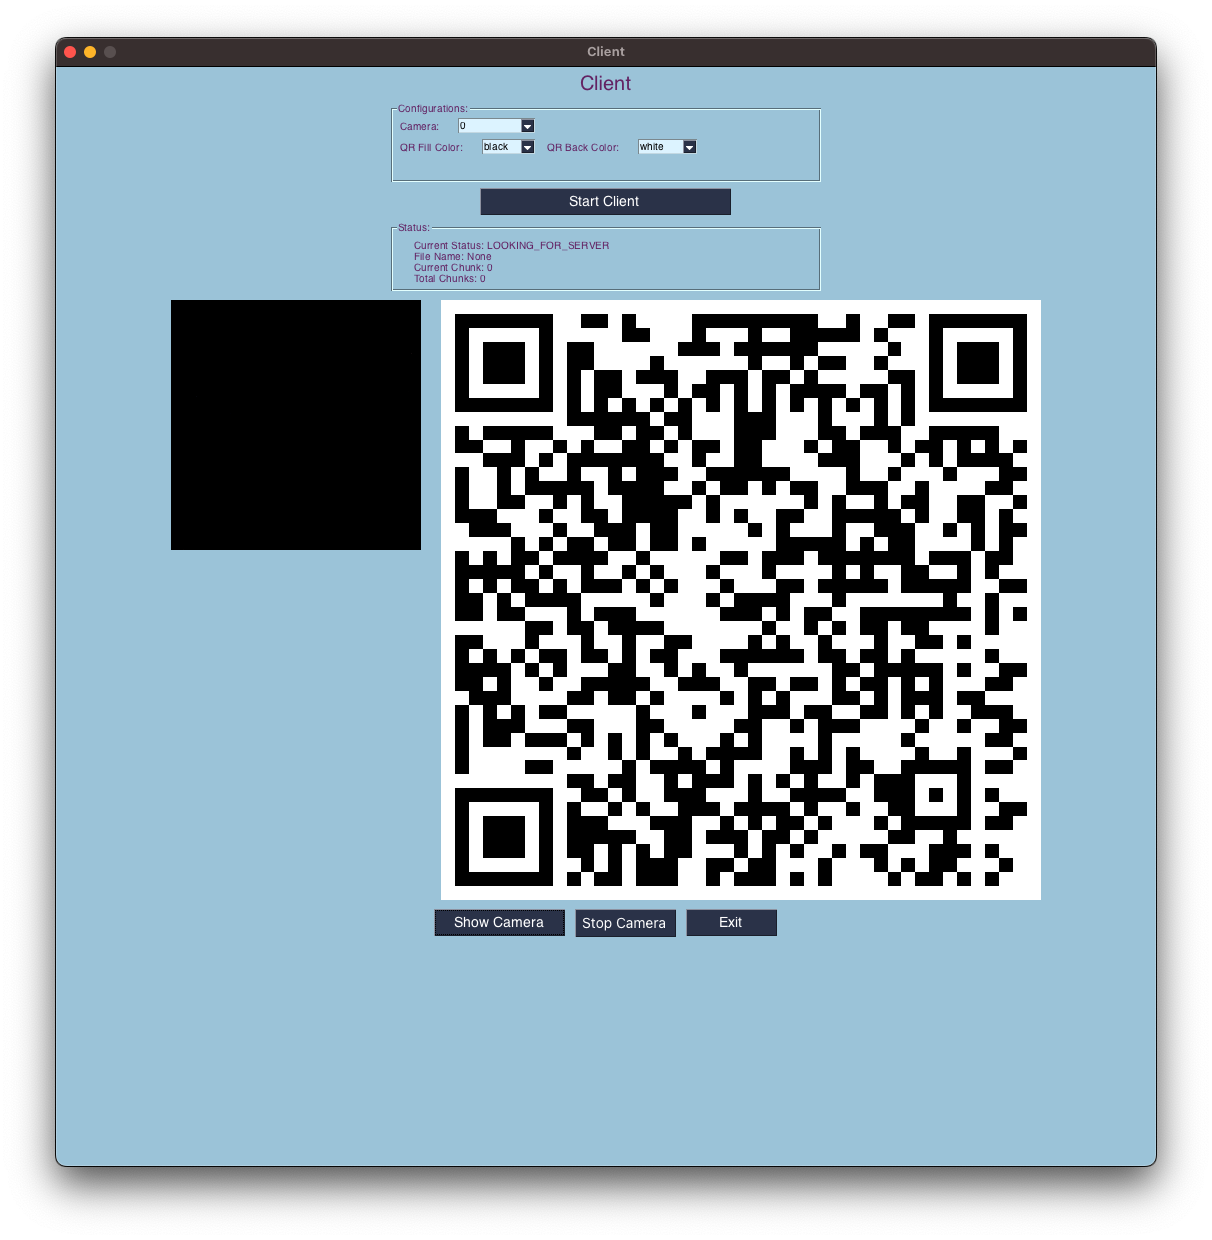
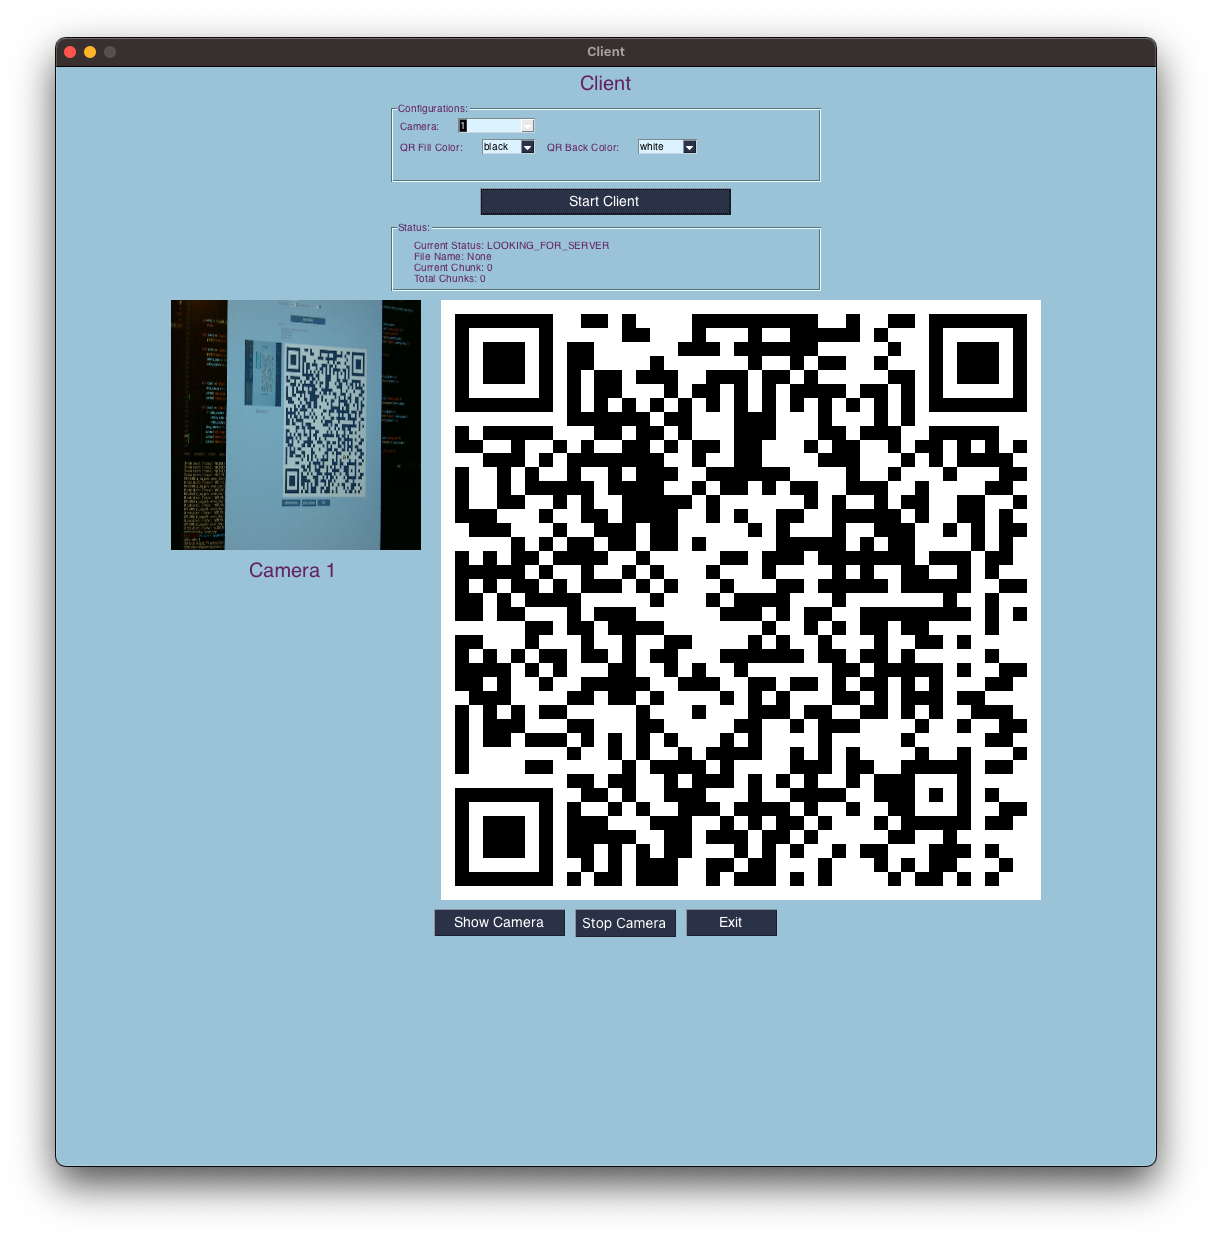
Update qr_data_into_img_bytes function parameters

Changed region(s): [[0.1526, 0.2145, 0.3358, 0.4597], [0.4274, 0.0919, 0.4579, 0.1226]]

diff --git a/client.py b/client.py
@@ -48,7 +48,10 @@ def main():
         [sg.Frame(title='Configurations:', size=(430,80),layout=configuration_layout)],
         [sg.Button('Start Client', size=(30, 1), font='Helvetica 14')],
         [sg.Frame(title='Status:', size=(430,70),layout=[ [sg.Text(key='current_chunk'),sg.Text('', key='current_status')] ])],
-        [sg.Column([[sg.Image(key="web-image")]], element_justification='left', vertical_alignment='top'), sg.Column([[sg.Image(key="qr-image")]], element_justification='c')],  
+        [
+        sg.Column([[sg.Image(key="web-image")], [sg.Text("Camera", font='Helvetica 20', visible=False, size=(20, 1), justification='center', key='camera_text')]], element_justification='left', vertical_alignment='top'),
+        sg.Column([[sg.Image(key="qr-image")]], element_justification='c')
+        ],
         [
             sg.Button('Show Camera', size=(15, 1), font='Helvetica 14'),
             sg.Button('Stop Camera', size=(10, 1), font='Any 14'),
@@ -68,9 +71,10 @@ def main():
     input_file_name = None
     qr_images_arr = []
     recived_file_path = None
-    # Const
+    qr_fill_color = 'black'
+    qr_back_color = 'white'
+
     
-    output_folder = 'out_client'
     
     
     update_qr_img = False
@@ -94,10 +98,11 @@ def main():
             update_qr_img = False
             
     
-        if values['caemra_index'] != camera_index:
+        if camera_index != None and values['caemra_index'] != camera_index:
             print(f"Camera index: {values['caemra_index']}")
             camera_index = int(values["caemra_index"])
             video_capture = cv2.VideoCapture(camera_index)
+            window["camera_text"].update(f"Camera {camera_index}")
         
         
         if event in (sg.WIN_CLOSED, 'Exit'):
@@ -106,6 +111,7 @@ def main():
         elif event == 'Stop Camera':
             show_camera = False
             window['web-image'].Update(visible=False)
+            window['camera_text'].Update(visible=False)
             
         elif event == 'Show Camera':
             if video_capture is None:
@@ -113,17 +119,23 @@ def main():
                 video_capture = cv2.VideoCapture(camera_index)
             show_camera = True
             window['web-image'].Update(visible=True)
+            window["camera_text"].update(f"Camera {camera_index}")
+            window['camera_text'].Update(visible=True)
         
         elif event == 'Start Client':
             if video_capture is None:
                 camera_index = int(values["caemra_index"])
                 video_capture = cv2.VideoCapture(camera_index)
             
+            qr_fill_color = values['qr_fill_color']
+            qr_back_color = values['qr_back_color']
+            print(qr_fill_color, qr_back_color)
             status = status = TransferStatus.CLIENT_READY.value
             
         if status == TransferStatus.CLIENT_READY.value:
             status = TransferStatus.LOOKING_FOR_SERVER.value
-            current_qr_status_img_bytes = qr_data_into_img_bytes(status)
+
+            current_qr_status_img_bytes = qr_data_into_img_bytes(qr_fill_color, qr_back_color, status)
             update_qr_img = True
             
         
@@ -132,7 +144,7 @@ def main():
             if qr_obj:
                 if qr_obj["status"] ==  TransferStatus.CONNECTION_START.value:
                     status = TransferStatus.WATTING_FOR_FILE_INFO.value
-                    current_qr_status_img_bytes = qr_data_into_img_bytes(status)
+                    current_qr_status_img_bytes = qr_data_into_img_bytes(qr_fill_color, qr_back_color, status)
                     update_qr_img = True
         
         elif status == TransferStatus.WATTING_FOR_FILE_INFO.value:
@@ -146,7 +158,7 @@ def main():
                     
                     # update status for the next gui update
                     status = TransferStatus.WAIT_FOR_DATA_CHUNK.value
-                    current_qr_status_img_bytes = qr_data_into_img_bytes(status,input_file_name, total_chunks, current_chunk)
+                    current_qr_status_img_bytes = qr_data_into_img_bytes(qr_fill_color, qr_back_color, status,input_file_name, total_chunks, current_chunk)
                     update_qr_img = True
                 
         elif status == TransferStatus.WAIT_FOR_DATA_CHUNK.value:
@@ -165,11 +177,11 @@ def main():
                         
                         if (int(current_chunk) == (total_chunks - 1)):
                             status = TransferStatus.CLIENT_RECIVED_ALL_DATA_CHUNKS.value
-                            current_qr_status_img_bytes = qr_data_into_img_bytes(status)
+                            current_qr_status_img_bytes = qr_data_into_img_bytes(qr_fill_color, qr_back_color, status)
                             update_qr_img = True
                         else:
                             status = TransferStatus.RECIVED_DATA_CHUNK.value
-                            current_qr_status_img_bytes = qr_data_into_img_bytes(status, input_file_name, total_chunks, current_chunk)
+                            current_qr_status_img_bytes = qr_data_into_img_bytes(qr_fill_color, qr_back_color, status, input_file_name, total_chunks, current_chunk)
                             update_qr_img = True
                             current_chunk += 1
                     
@@ -180,7 +192,7 @@ def main():
                 if qr_obj["status"] ==  TransferStatus.READY_TO_SEND_NEXT_CHUNK.value:
                     if qr_obj["currentChunk"] == current_chunk:
                         status = TransferStatus.WAIT_FOR_DATA_CHUNK.value
-                        current_qr_status_img_bytes = qr_data_into_img_bytes(status, input_file_name, total_chunks, current_chunk)
+                        current_qr_status_img_bytes = qr_data_into_img_bytes(qr_fill_color, qr_back_color, status, input_file_name, total_chunks, current_chunk)
                         update_qr_img = True
                         
         elif status == TransferStatus.CLIENT_RECIVED_ALL_DATA_CHUNKS.value:

diff --git a/server.py b/server.py
@@ -45,8 +45,10 @@ def main():
             [sg.Text(key='current_chunk'),sg.Text('', key='current_status')],
             ])
         ],
-        [sg.Column([[sg.Image(key="web-image")]], element_justification='left', vertical_alignment='top'), sg.Column([[sg.Image(key="qr-image")]], element_justification='c')],
         [
+        sg.Column([[sg.Image(key="web-image")], [sg.Text("Camera", font='Helvetica 20', visible=False, size=(20, 1), justification='center', key='camera_text')]], element_justification='left', vertical_alignment='top'),
+        sg.Column([[sg.Image(key="qr-image")]], element_justification='c')
+        ],        [
         sg.Button('Show Camera', size=(15, 1), font='Helvetica 14'),
         sg.Button('Stop Camera', size=(10, 1), font='Any 14'),
         sg.Button('Exit', size=(10, 1), font='Helvetica 14'), 
@@ -90,10 +92,11 @@ def main():
             window["qr-image"].update(data=current_gui_img_in_bytes)
             update_qr_img = False
 
-        if values['caemra_index'] != camera_index:
+        if camera_index != None and values['caemra_index'] != camera_index:
             print(f"Camera index: {values['caemra_index']}")
             camera_index = int(values["caemra_index"])
             video_capture = cv2.VideoCapture(camera_index)
+            window["camera_text"].update(f"Camera {camera_index}")
         
         # if file path is selected
         if event == "input":
@@ -127,6 +130,7 @@ def main():
         elif event == 'Stop Camera':
             show_camera = False
             window['web-image'].Update(visible=False)
+            window['camera_text'].Update(visible=False)
             
         elif event == 'Show Camera':
             if video_capture is None:
@@ -134,6 +138,8 @@ def main():
                 video_capture = cv2.VideoCapture(camera_index)
             show_camera = True
             window['web-image'].Update(visible=True)
+            window["camera_text"].update(f"Camera {camera_index}")
+            window['camera_text'].Update(visible=True)
 
         elif event == 'Start Server':
             
@@ -174,7 +180,7 @@ def main():
                     status = TransferStatus.CONNECTION_START.value
                     # update GUI img in the next iteration
                     # create a qr image with CONNECTION_START status
-                    current_gui_img_in_bytes = qr_data_into_img_bytes(status,input_file_name,total_chunks, current_chunk)
+                    current_gui_img_in_bytes = qr_data_into_img_bytes(qr_fill_color, qr_back_color, status,input_file_name,total_chunks, current_chunk)
                     # in the next GUI iteration, gui image will be updated
                     update_qr_img = True
 
@@ -186,7 +192,7 @@ def main():
                     status = TransferStatus.DATA_INFO.value
                     # update GUI img in the next iteration
                     # create a qr image with DATA_INFO status
-                    current_gui_img_in_bytes = qr_data_into_img_bytes(status,input_file_name,total_chunks, current_chunk)
+                    current_gui_img_in_bytes = qr_data_into_img_bytes(qr_fill_color, qr_back_color, status,input_file_name,total_chunks, current_chunk)
                     # in the next GUI iteration, gui image will be updated
                     update_qr_img = True
                     
@@ -194,7 +200,7 @@ def main():
         elif status == TransferStatus.DATA_INFO.value:
             print("DATA_INFO")
             # Create a qr image with DATA_INFO status and input file name and total chunks
-            # current_gui_img_in_bytes = qr_data_into_img_bytes(status, input_file_name, total_chunks)
+            # current_gui_img_in_bytes = qr_data_into_img_bytes(qr_fill_color, qr_back_color, status, input_file_name, total_chunks)
             # in the next GUI iteration, we will update the qr image
             # update_qr_img = True
             
@@ -231,7 +237,7 @@ def main():
                     if qr_obj["currentChunk"] == current_chunk:
                         current_chunk += 1
                         status = TransferStatus.READY_TO_SEND_NEXT_CHUNK.value
-                        current_gui_img_in_bytes = qr_data_into_img_bytes(status,input_file_name,total_chunks, current_chunk)
+                        current_gui_img_in_bytes = qr_data_into_img_bytes(qr_fill_color, qr_back_color, status,input_file_name,total_chunks, current_chunk)
                         # in the next GUI iteration, gui image will be updated
                         update_qr_img = True
                         

diff --git a/file_to_qr.py b/file_to_qr.py
@@ -175,11 +175,8 @@ def data_info_to_qr(status, name, total_chunks, qr_fill_color, qr_back_color):
     return qr_file
             
 
-def qr_data_into_img_bytes(status, name = "", total_chunks = "", current_chunk=0, data = ""):
+def qr_data_into_img_bytes(fill_color, back_color, status, name = "", total_chunks = "", current_chunk=0, data = ""):
     
-    fill_color = 'black'
-    back_color = 'white'
-
     payload = { 
         'status': status,
         'name': name,
